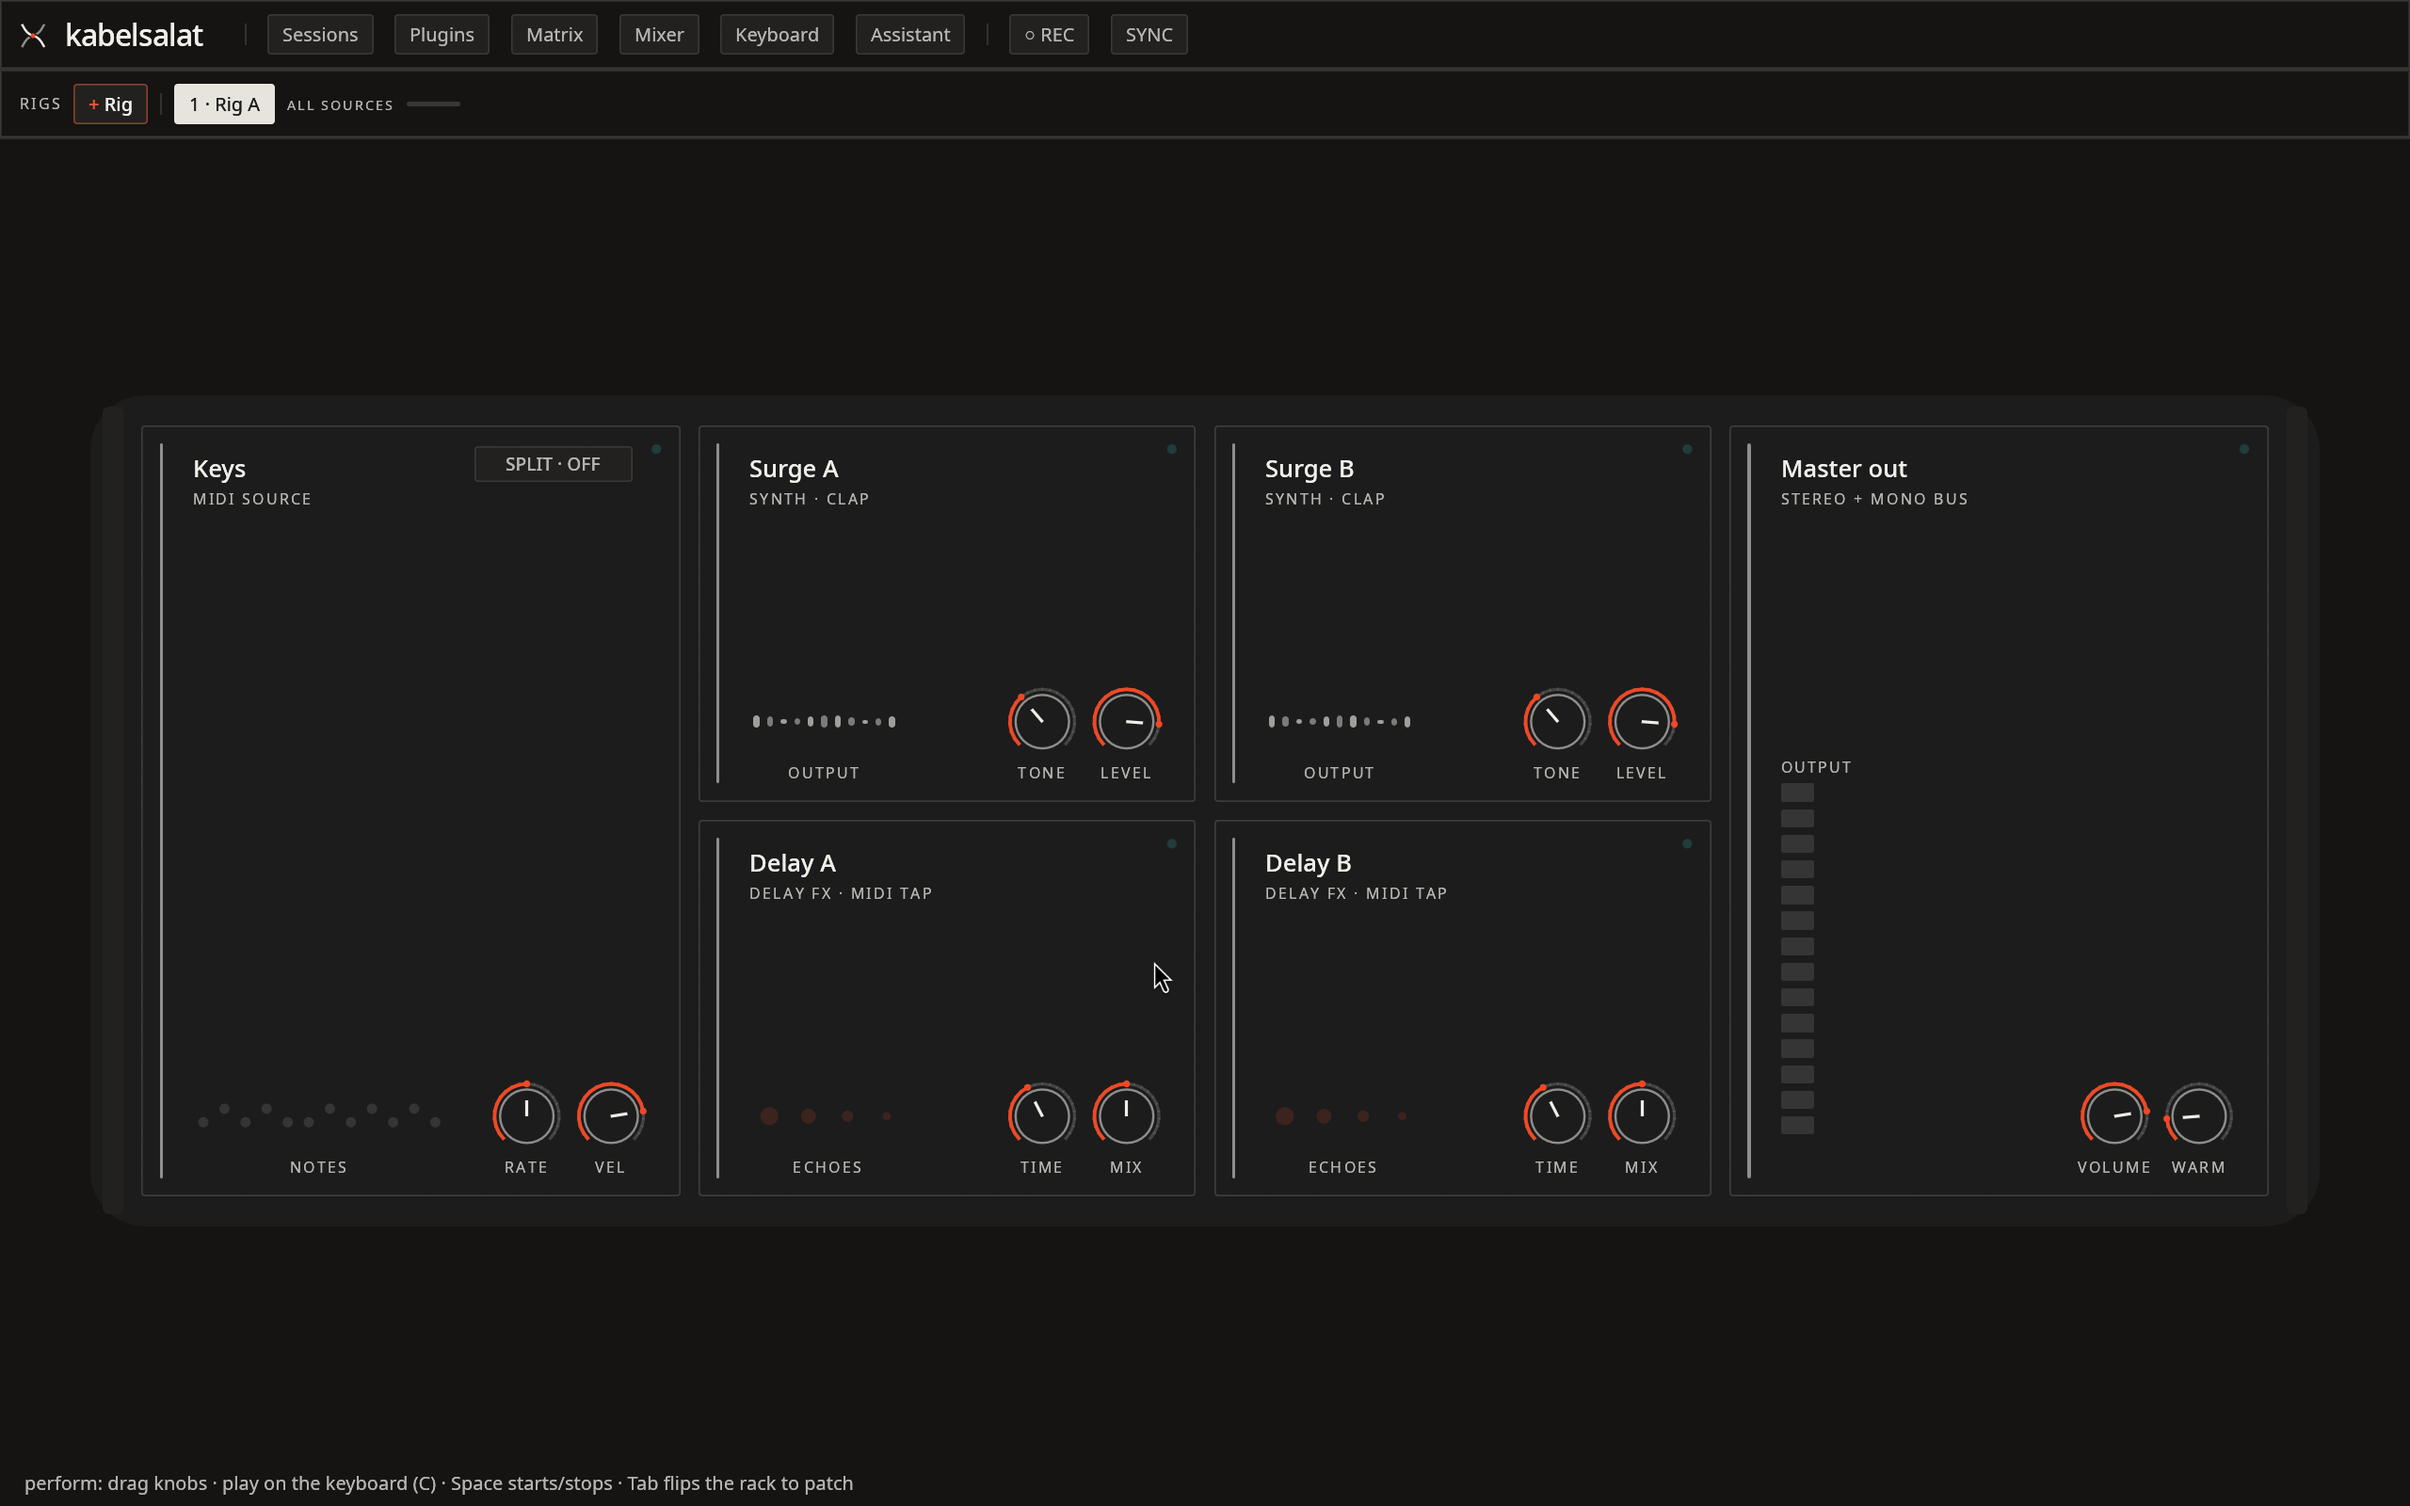
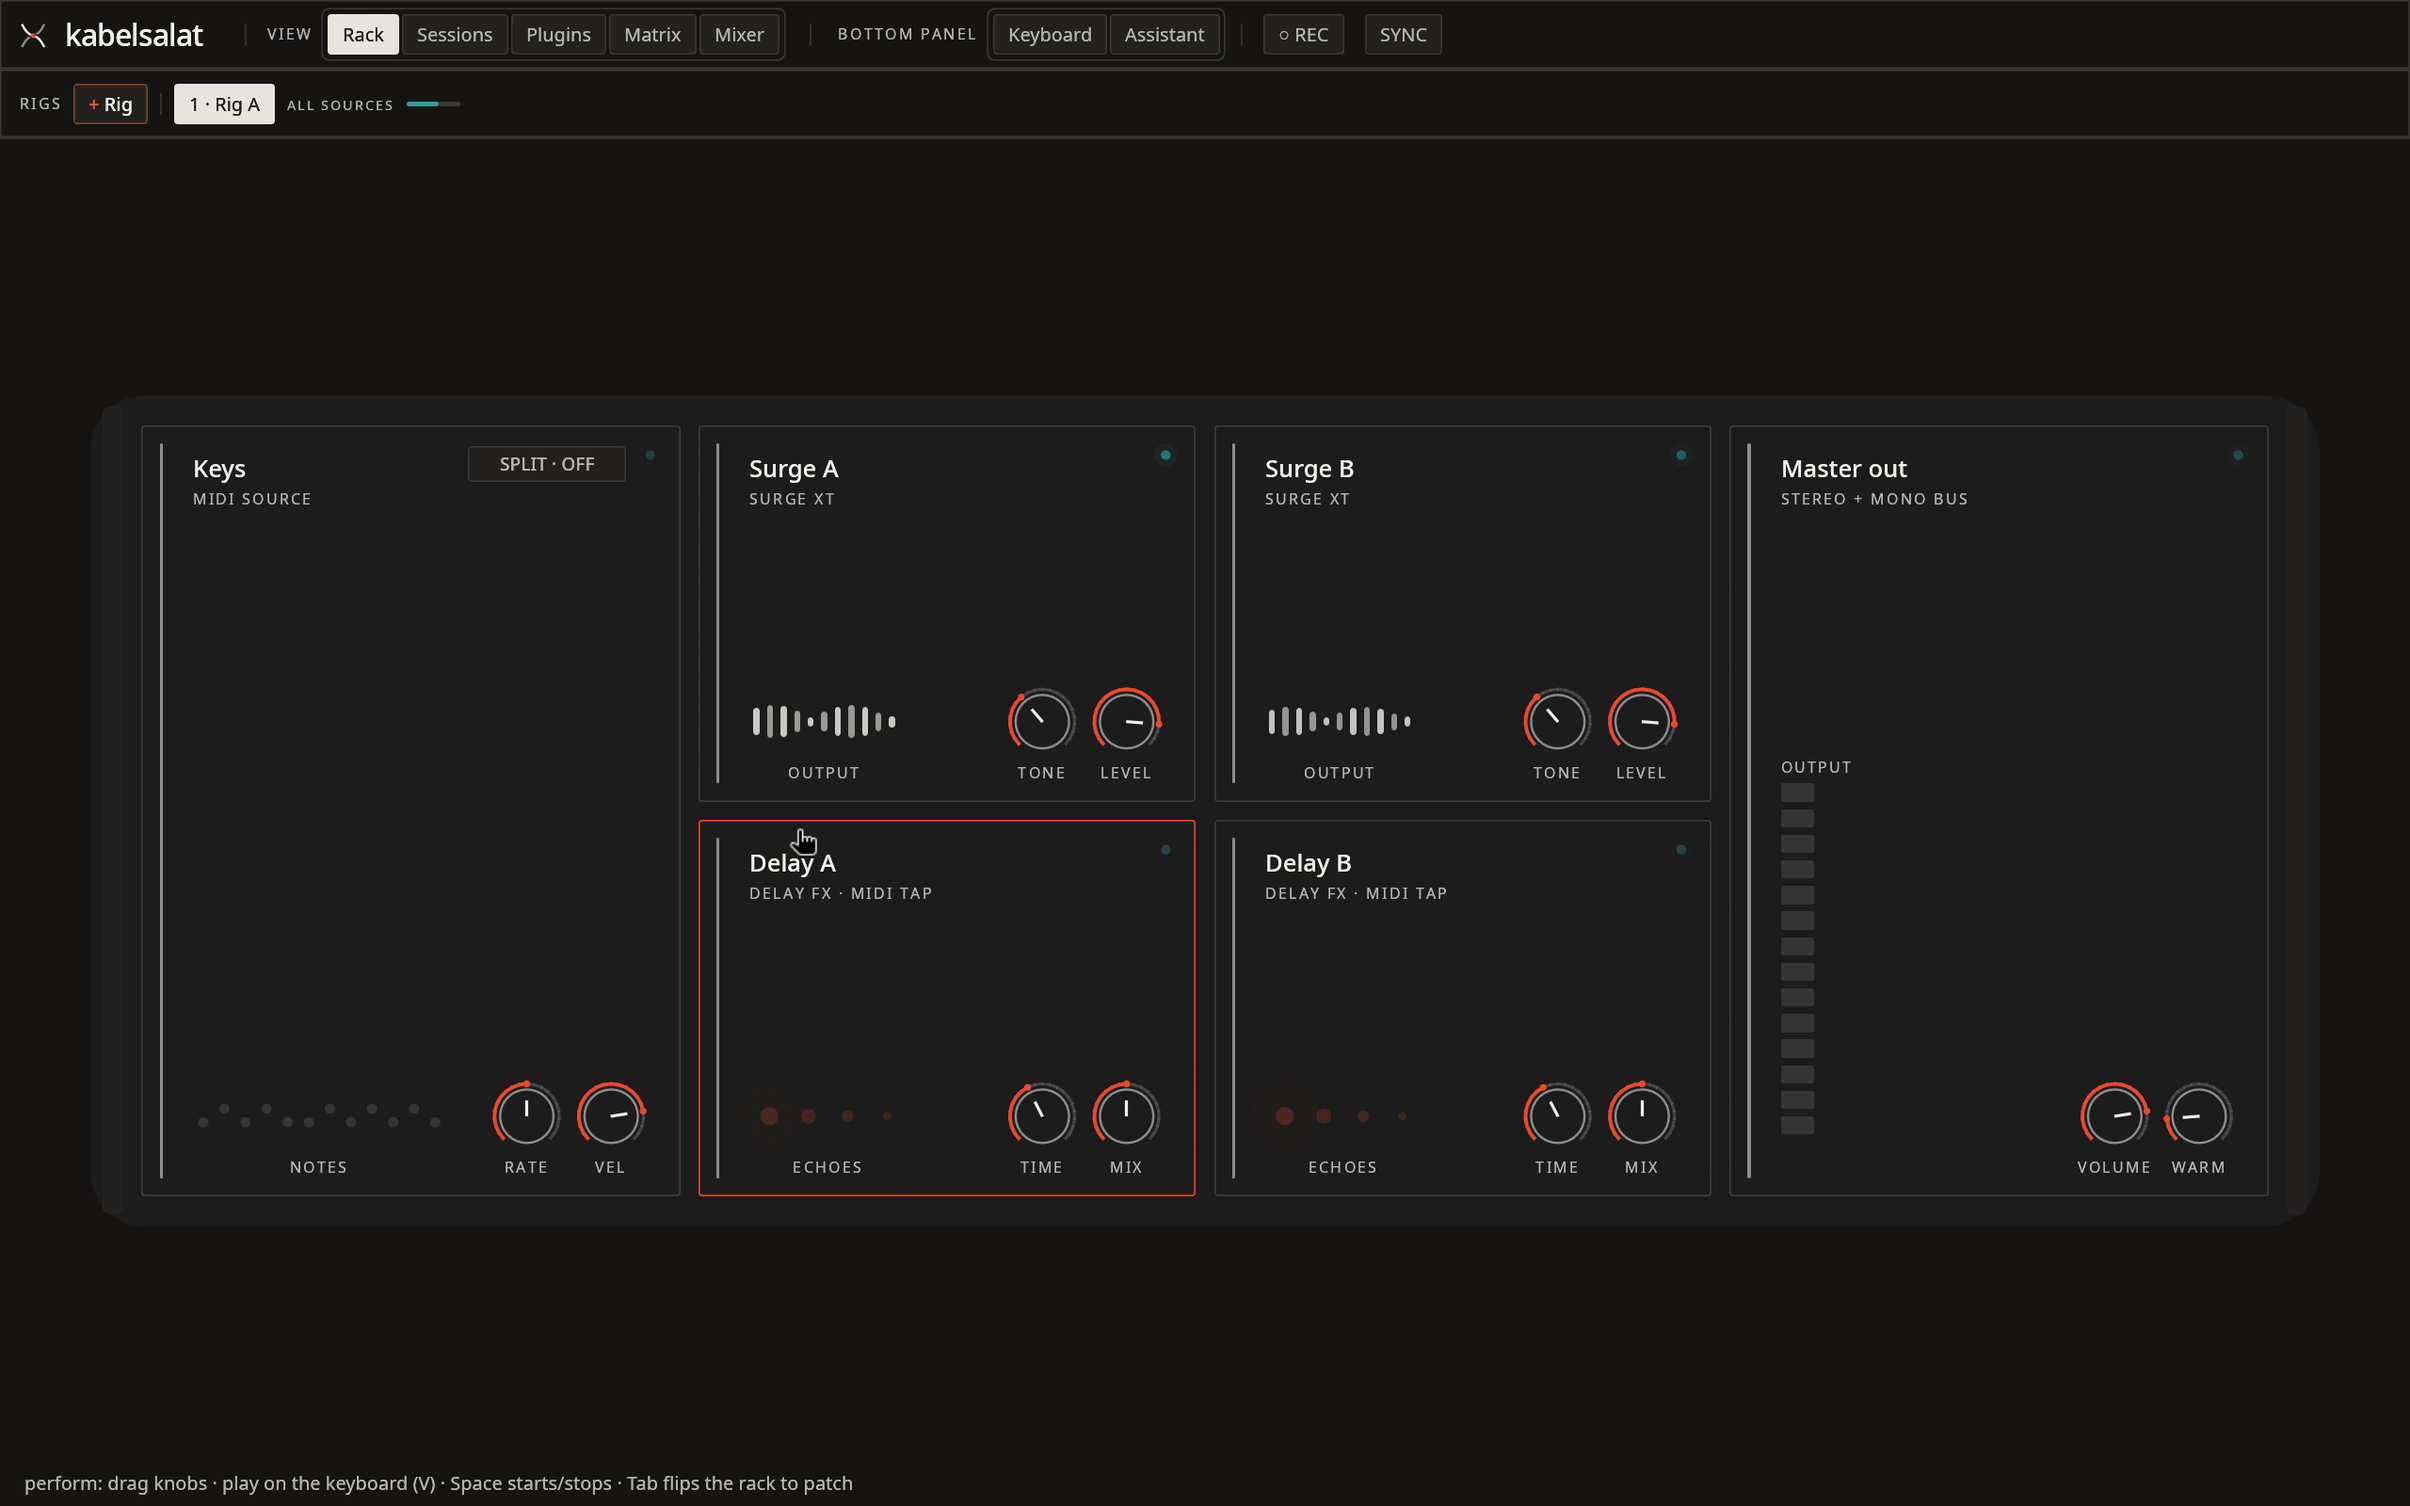
feat(ui): top bar shows View vs Bottom panel; units name the loaded instrument
- Top bar: a VIEW segment (Rack | Sessions | Plugins | Matrix | Mixer —
  exactly one, Rack explicit) and a separate BOTTOM PANEL group (Keyboard |
  Assistant). Clicking the active view keeps it; Rack returns to the rack.
- Clap units' subtitle names the plugin and patch ("Surge XT · Wurli")
  instead of "synth · clap"; names come from the background plugin scan.
- Fix the hint: the keyboard dock is V, not C.

Evidence: cargo test 320 passed; screenshot docs/shots/rack-front.png.

diff --git a/src/ui.rs b/src/ui.rs
@@ -820,7 +820,7 @@ use crate::control::VOICE_POOL;
 
 fn nav_button(ui: &mut egui::Ui, name: &str, active: bool) -> bool {
     // Hover names the letter shortcut (M / N / C / B).
-    let key = match name { "Mixer" => Some("M"), "Matrix" => Some("N"), "Assistant" => Some("C"), "Plugins" => Some("B"), _ => None };
+    let key = match name { "Mixer" => Some("M"), "Matrix" => Some("N"), "Assistant" => Some("C"), "Keyboard" => Some("V"), "Plugins" => Some("B"), _ => None };
     let r = theme::chip_button(ui, name, active);
     match key { Some(k) => r.on_hover_text(format!("{name} · key {k}")).clicked(), None => r.clicked() }
 }
@@ -1387,6 +1387,9 @@ struct DemoApp {
     rig_chip_rects: Vec<Rect>,
     /// Last frame's "+ Rig" button rect in the overview strip (points).
     add_rig_rect: Rect,
+    /// Top-bar groups (tests): the View segment and the Bottom panel toggles.
+    view_group_rect: Rect,
+    dock_group_rect: Rect,
     // Plugin browser (task-18): add hosted LV2/CLAP plugins to a rig.
     plugins_loaded: bool,
     plugins_clap: Vec<ClapPluginInfo>,
@@ -1677,6 +1680,8 @@ impl DemoApp {
             patch_notice: None,
             rig_chip_rects: Vec::new(),
             add_rig_rect: Rect::NOTHING,
+            view_group_rect: Rect::NOTHING,
+            dock_group_rect: Rect::NOTHING,
             plugins_loaded: false,
             plugins_clap: Vec::new(),
             plugins_lv2: Vec::new(),
@@ -2103,7 +2108,7 @@ impl DemoApp {
         for (ui, u) in self.units.iter_mut().enumerate() {
             let w = self.unit_rects.get(ui).map_or(f32::NAN, |r| r.width());
             let fit_w = if w.is_finite() && w > 0.0 { w } else { f32::INFINITY };
-            let refit = u.name_g.is_none() || (fit_w - u.label_fit_w).abs() > 0.5;
+            let refit = u.name_g.is_none() || u.sub_g.is_none() || (fit_w - u.label_fit_w).abs() > 0.5;
             if refit {
                 // Name: Medium 16px, sentence case (§4.3), beside the LED.
                 // Subtitle: tracked micro-caps 10px (+0.14em), below it.
@@ -2148,7 +2153,7 @@ impl DemoApp {
         self.state_pause_g = Some(tracked("STOPPED", 10.0, 0.14));
         // Hints (§4.15): plain caption lines on paper, sentence case.
         self.hint_front_g = Some(layout(
-            "perform: drag knobs · play on the keyboard (C) · Space starts/stops · Tab flips the rack to patch",
+            "perform: drag knobs · play on the keyboard (V) · Space starts/stops · Tab flips the rack to patch",
             FontId::proportional(12.5), theme::INK_2, f32::INFINITY));
         self.hint_back_g = Some(layout(
             "patch: drag jack to jack · drag a plug to another jack to move it · tug off to unplug · Tab flips back",
@@ -5689,29 +5694,44 @@ impl DemoApp {
                     }
                     nav_separator(ui);
                     ui.add_space(6.0);
-                    if nav_button(ui, "Sessions", self.stage_view == StageView::Sessions) {
-                        self.toggle_stage(StageView::Sessions);
+                    // Two explicit groups (user): the VIEW decides what the
+                    // main stage shows — exactly one, Rack included — while
+                    // the BOTTOM PANEL toggles what docks under it.
+                    theme::section_label(ui, "View");
+                    ui.add_space(2.0);
+                    let views = [
+                        ("Rack", StageView::Rack),
+                        ("Sessions", StageView::Sessions),
+                        ("Plugins", StageView::Plugins),
+                        ("Matrix", StageView::Matrix),
+                        ("Mixer", StageView::Mixer),
+                    ];
+                    let mut pick = None;
+                    let group = ui.scope(|ui| {
+                        ui.spacing_mut().item_spacing.x = 2.0;
+                        for (name, view) in views {
+                            if nav_button(ui, name, self.stage_view == view) { pick = Some(view); }
+                        }
+                    }).response.rect;
+                    ui.painter().rect_stroke(group.expand(3.0), 4.0, Stroke::new(1.0, theme::HAIRLINE), egui::StrokeKind::Outside);
+                    self.view_group_rect = group;
+                    if let Some(view) = pick {
+                        if view == StageView::Rack || view != self.stage_view { self.toggle_stage(view); }
                     }
-                    ui.add_space(6.0);
-                    if nav_button(ui, "Plugins", self.stage_view == StageView::Plugins) {
-                        self.toggle_stage(StageView::Plugins);
-                    }
-                    ui.add_space(6.0);
-                    if nav_button(ui, "Matrix", self.stage_view == StageView::Matrix) {
-                        self.toggle_stage(StageView::Matrix);
-                    }
-                    ui.add_space(6.0);
-                    if nav_button(ui, "Mixer", self.stage_view == StageView::Mixer) {
-                        self.toggle_stage(StageView::Mixer);
-                    }
-                    ui.add_space(6.0);
-                    if nav_button(ui, "Keyboard", self.keyboard_open()) {
-                        self.toggle_dock(DockView::Keyboard);
-                    }
-                    ui.add_space(6.0);
-                    if nav_button(ui, "Assistant", self.assistant_open()) {
-                        self.toggle_dock(DockView::Assistant);
-                    }
+                    ui.add_space(12.0);
+                    nav_separator(ui);
+                    ui.add_space(10.0);
+                    theme::section_label(ui, "Bottom panel");
+                    ui.add_space(2.0);
+                    let mut dock = None;
+                    let group = ui.scope(|ui| {
+                        ui.spacing_mut().item_spacing.x = 2.0;
+                        if nav_button(ui, "Keyboard", self.keyboard_open()) { dock = Some(DockView::Keyboard); }
+                        if nav_button(ui, "Assistant", self.assistant_open()) { dock = Some(DockView::Assistant); }
+                    }).response.rect;
+                    ui.painter().rect_stroke(group.expand(3.0), 4.0, Stroke::new(1.0, theme::HAIRLINE), egui::StrokeKind::Outside);
+                    self.dock_group_rect = group;
+                    if let Some(d) = dock { self.toggle_dock(d); }
                     // Master recording (GitHub #6): a REC chip (tomato only
                     // while recording) + a sync-to-transport toggle + elapsed
                     // time while active. Start/stop go through the command bus.
@@ -7111,6 +7131,46 @@ impl DemoApp {
 
     /// The instrument rigs (Clap units) in voice order: (rig index, node id).
     /// At most two — the engine owns two CLAP voices.
+    /// Display name of a hosted CLAP plugin: the scanned plugin name, else a
+    /// known id, else None (the caller keeps its generic subtitle).
+    fn plugin_display_name(&self, plugin_id: &str) -> Option<String> {
+        if let Some(p) = self.plugins_clap.iter().find(|p| p.id == plugin_id) {
+            return Some(p.name.clone());
+        }
+        (plugin_id == SURGE_ID || plugin_id == "Surge XT").then(|| "Surge XT".to_string())
+    }
+
+    /// Clap unit subtitles name what is really loaded: "Surge XT · Wurli"
+    /// (plugin · patch), not the generic "synth · clap" (user). Cheap per
+    /// frame: a few string compares; the galley is rebuilt only on change.
+    fn refresh_instrument_subs(&mut self) {
+        if self.plugins_clap.is_empty() && !self.plugins_loaded && !cfg!(test)
+            && self.units.iter().any(|u| matches!(u.node_kind, UnitKind::Clap))
+        {
+            self.start_plugin_scan(false); // background (rule 46); fills names when done
+        }
+        let ids: Vec<(u32, String)> = self.base_graph.nodes.iter()
+            .filter_map(|n| match &n.kind {
+                NodeKind::Clap { plugin_id } => Some((n.id, name_str(plugin_id).to_string())),
+                _ => None,
+            })
+            .collect();
+        for (slot, node) in self.clap_rigs() {
+            let Some(pid) = ids.iter().find(|(id, _)| *id == node).map(|(_, p)| p.clone()) else { continue };
+            let Some(plugin) = self.plugin_display_name(&pid) else { continue };
+            let sub = match self.patch_names.get(slot).cloned().flatten() {
+                Some(patch) => format!("{plugin} · {patch}"),
+                None => plugin,
+            };
+            if let Some(u) = self.units.iter_mut().find(|u| u.node_id == node) {
+                if u.sub != sub {
+                    u.sub = sub;
+                    u.sub_g = None;
+                }
+            }
+        }
+    }
+
     fn clap_rigs(&self) -> Vec<(usize, u32)> {
         self.units.iter()
             .filter(|u| matches!(u.node_kind, UnitKind::Clap))
@@ -10073,6 +10133,8 @@ impl DemoApp {
     /// drive the exact runtime path through a plain `egui::Context`.
     fn frame_ui(&mut self, ui: &mut egui::Ui) {
         let ctx = ui.ctx().clone();
+        // Subtitles first: a changed instrument name is laid out this frame.
+        self.refresh_instrument_subs();
         self.ensure_galleys(&ctx);
 
         // Fractional-HiDPI fix: winit reports scale 1.0 on Hyprland's 1.6x
@@ -13118,6 +13180,40 @@ mod split_bpm_tests {
     }
 
     #[test]
+    fn clap_units_name_the_loaded_instrument_and_patch() {
+        let (mut app, ctx) = demo();
+        let (slot, node) = app.clap_rigs()[0];
+        app.patch_names[slot] = Some("Wurli".into());
+        let texts = frame(&mut app, &ctx, vec![]);
+        let u = app.units.iter().find(|u| u.node_id == node).unwrap();
+        assert_eq!(u.sub, "Surge XT · Wurli");
+        // Tracked captions paint one glyph per shape: join them.
+        assert!(texts.concat().contains("SURGE XT · WURLI"), "subtitle repainted: {texts:?}");
+    }
+
+    #[test]
+    fn top_bar_separates_views_from_bottom_panels() {
+        let (mut app, ctx) = demo();
+        let texts = frame(&mut app, &ctx, vec![]);
+        assert!(texts.iter().any(|t| t == "Rack"), "Rack is an explicit view: {texts:?}");
+        let (v, d) = (app.view_group_rect, app.dock_group_rect);
+        assert!(v.is_positive() && d.is_positive() && v.right() < d.left(), "two separate groups: {v:?} {d:?}");
+        // Views are exclusive: Mixer, Mixer again (stays), then Rack.
+        let mixer = v.right_center() - Vec2::new(12.0, 0.0);
+        click(&mut app, &ctx, mixer);
+        assert_eq!(app.stage_view, StageView::Mixer);
+        click(&mut app, &ctx, mixer);
+        assert_eq!(app.stage_view, StageView::Mixer, "the active view stays selected");
+        let rack = app.view_group_rect.left_center() + Vec2::new(12.0, 0.0);
+        click(&mut app, &ctx, rack);
+        assert_eq!(app.stage_view, StageView::Rack, "Rack button returns to the rack");
+        // Bottom panel toggles independently of the view.
+        let kb = app.dock_group_rect.left_center() + Vec2::new(12.0, 0.0);
+        click(&mut app, &ctx, kb);
+        assert!(app.keyboard_open() && app.stage_view == StageView::Rack);
+    }
+
+    #[test]
     fn rack_knob_midi_learn_bind_follow_and_cancel() {
         let (mut app, ctx) = demo();
         let (bus, mut drain) = command_bus();
@@ -13466,7 +13562,8 @@ mod stage_views_tests {
         });
         sessions_btns.sort_by(|a, b| a.left().total_cmp(&b.left()));
         assert!(!sessions_btns.is_empty(), "top bar buttons laid out");
-        let s_pos = sessions_btns[0].center();
+        // [0] is Rack (the View group starts with it), [1] Sessions.
+        let s_pos = sessions_btns[1].center();
         let ptr = |p, pressed| egui::Event::PointerButton { pos: p, button: egui::PointerButton::Primary, pressed, modifiers: Modifiers::NONE };
         run_frame(&mut app, &ctx, size, vec![egui::Event::PointerMoved(s_pos), ptr(s_pos, true), ptr(s_pos, false)]);
         assert_eq!(app.stage_view, StageView::Sessions, "Sessions chip opens Sessions stage");
